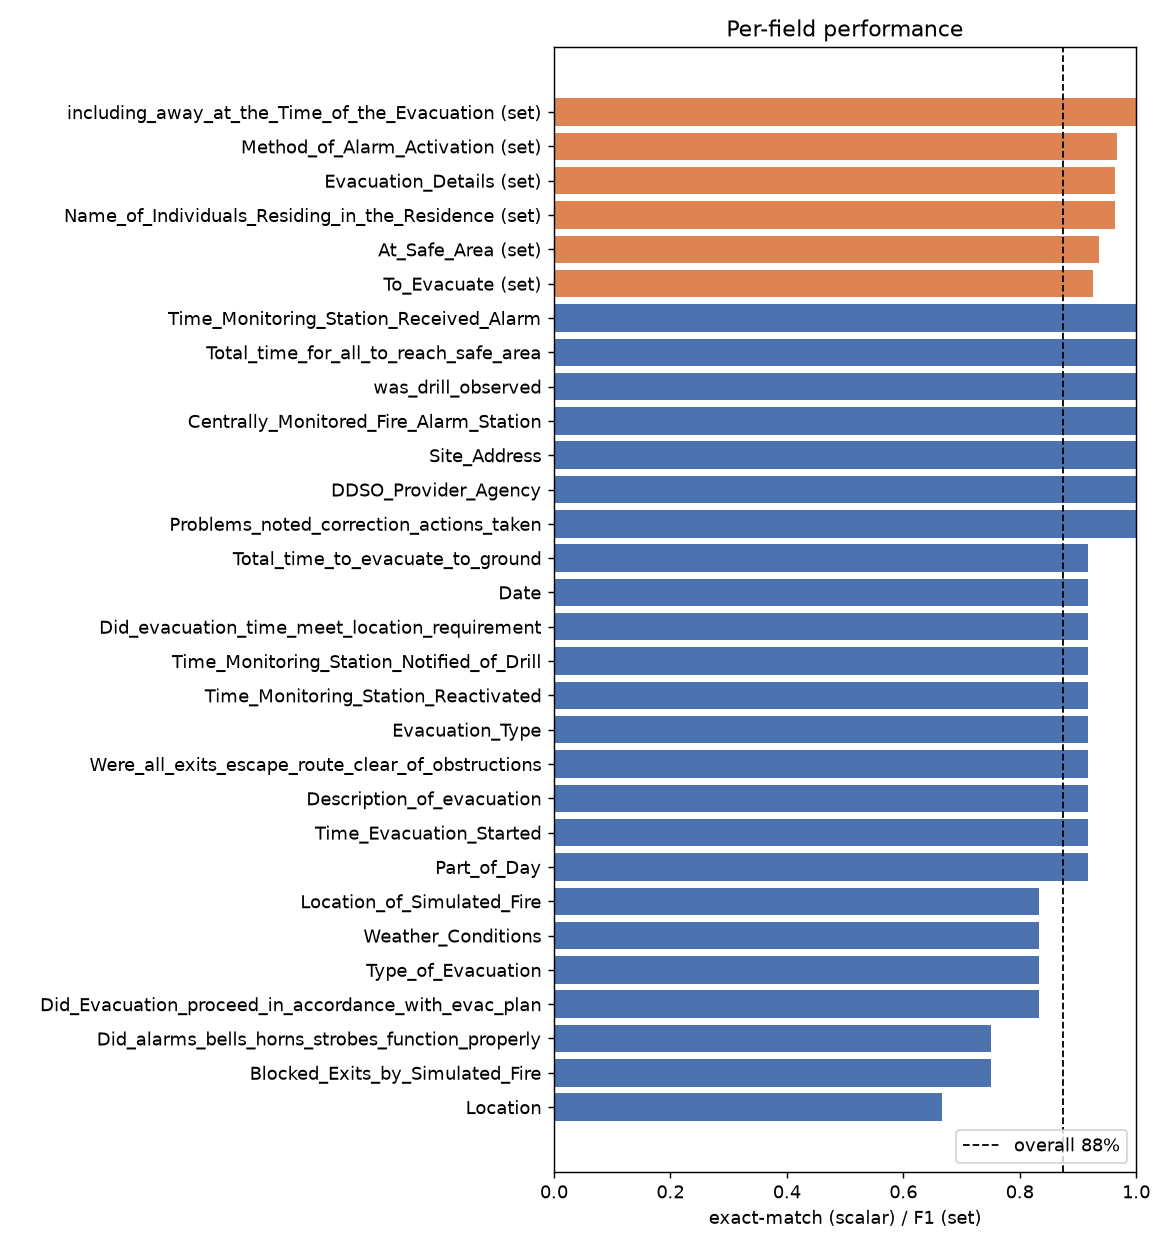
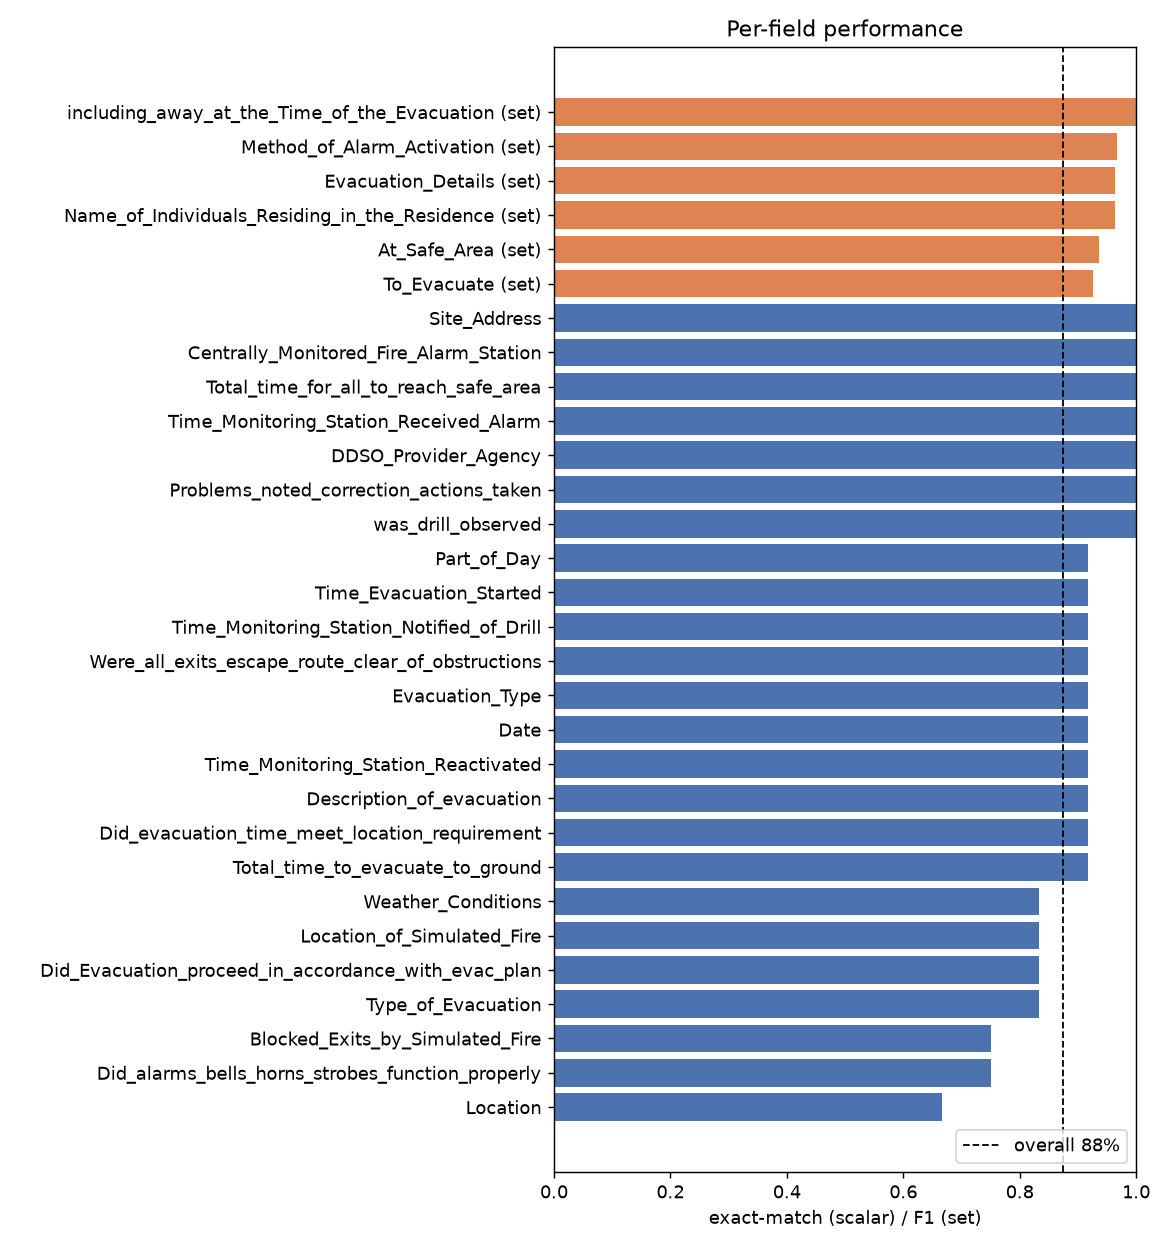
Fix CI failures: PDF codec, mypy version pin, and type-clean deskew
- generate_synthetic_forms: build PDFs with PyMuPDF instead of Pillow's
  JPEG-dependent PDF writer (CI runners lack the JPEG codec -> KeyError 'JPEG')
- preprocessing.estimate_skew_angle: compute float median then clamp with
  float literals (resolves numpy stub arg-type error on 3.10)
- mypy: drop python_version pin (newer numpy stubs use PEP 695 `type`)
- CI: split into a single-version `static` job (lint/format/mypy on 3.10)
  plus a `test` matrix (pytest + eval smoke on 3.10/3.11/3.12)

Changed region(s): [[0.0923, 0.25, 0.4615, 0.625], [0.0308, 0.6562, 0.4615, 0.875]]

diff --git a/eval/generate_synthetic_forms.py b/eval/generate_synthetic_forms.py
@@ -277,6 +277,29 @@ def _render_page2(rec: dict) -> Image.Image:
     return img
 
 
+def _save_pdf(pages: list[Image.Image], path: Path) -> None:
+    """Write PIL pages to a multi-page PDF via PyMuPDF.
+
+    Pillow's own PDF writer encodes RGB pages through JPEG, which requires a
+    libjpeg-backed codec that minimal CI environments may lack (KeyError: 'JPEG').
+    PyMuPDF ships its own codecs and embeds the pages as lossless PNG streams.
+    """
+    import io
+
+    import fitz
+
+    doc = fitz.open()
+    try:
+        for img in pages:
+            buf = io.BytesIO()
+            img.save(buf, format="PNG")
+            page = doc.new_page(width=img.width, height=img.height)
+            page.insert_image(fitz.Rect(0, 0, img.width, img.height), stream=buf.getvalue())
+        doc.save(str(path))
+    finally:
+        doc.close()
+
+
 def generate(n: int, seed: int) -> None:
     rng = random.Random(seed)
     SAMPLE_DIR.mkdir(parents=True, exist_ok=True)
@@ -287,8 +310,7 @@ def generate(n: int, seed: int) -> None:
         for i in range(n):
             rec = _make_record(rng)
             src = f"synthetic_form_{i:02d}.pdf"
-            p1, p2 = _render_page1(rec), _render_page2(rec)
-            p1.save(SAMPLE_DIR / src, save_all=True, append_images=[p2], resolution=120.0)
+            _save_pdf([_render_page1(rec), _render_page2(rec)], SAMPLE_DIR / src)
             gt.write(json.dumps({"source_file": src, "fields": rec}) + "\n")
     print(f"Wrote {n} synthetic forms to {SAMPLE_DIR}")
     print(f"Wrote ground truth to {labels_path}")

diff --git a/src/formextract/preprocessing.py b/src/formextract/preprocessing.py
@@ -68,7 +68,8 @@ def estimate_skew_angle(gray: np.ndarray) -> float:
             angles.append(ang)
     if not angles:
         return 0.0
-    return float(max(min(np.median(angles), 10), -10))
+    median_angle = float(np.median(angles))
+    return max(min(median_angle, 10.0), -10.0)
 
 
 def _rotate_keep_bounds(gray: np.ndarray, angle_deg: float) -> np.ndarray:

diff --git a/eval/reports/metrics.md b/eval/reports/metrics.md
@@ -15,30 +15,30 @@
 ## Scalar (text) fields
 | field                                               | exact-match   |   mean sim |   n |
 |-----------------------------------------------------|---------------|------------|-----|
+| was_drill_observed                                  | 100.0%        |      1     |  12 |
 | Problems_noted_correction_actions_taken             | 100.0%        |      1     |  12 |
 | DDSO_Provider_Agency                                | 100.0%        |      1     |  12 |
-| Site_Address                                        | 100.0%        |      1     |  12 |
-| Centrally_Monitored_Fire_Alarm_Station              | 100.0%        |      1     |  12 |
-| was_drill_observed                                  | 100.0%        |      1     |  12 |
-| Total_time_for_all_to_reach_safe_area               | 100.0%        |      1     |  12 |
 | Time_Monitoring_Station_Received_Alarm              | 100.0%        |      1     |  12 |
+| Total_time_for_all_to_reach_safe_area               | 100.0%        |      1     |  12 |
+| Centrally_Monitored_Fire_Alarm_Station              | 100.0%        |      1     |  12 |
+| Site_Address                                        | 100.0%        |      1     |  12 |
 | Location                                            | 66.7%         |      0.742 |  12 |
-| Blocked_Exits_by_Simulated_Fire                     | 75.0%         |      0.812 |  12 |
 | Did_alarms_bells_horns_strobes_function_properly    | 75.0%         |      0.75  |  12 |
-| Did_Evacuation_proceed_in_accordance_with_evac_plan | 83.3%         |      0.833 |  12 |
+| Blocked_Exits_by_Simulated_Fire                     | 75.0%         |      0.812 |  12 |
 | Type_of_Evacuation                                  | 83.3%         |      0.912 |  12 |
-| Weather_Conditions                                  | 83.3%         |      0.896 |  12 |
+| Did_Evacuation_proceed_in_accordance_with_evac_plan | 83.3%         |      0.833 |  12 |
 | Location_of_Simulated_Fire                          | 83.3%         |      0.903 |  12 |
-| Part_of_Day                                         | 91.7%         |      0.991 |  12 |
-| Time_Evacuation_Started                             | 91.7%         |      0.988 |  12 |
-| Description_of_evacuation                           | 91.7%         |      0.917 |  12 |
-| Were_all_exits_escape_route_clear_of_obstructions   | 91.7%         |      0.917 |  12 |
-| Evacuation_Type                                     | 91.7%         |      0.917 |  12 |
-| Time_Monitoring_Station_Reactivated                 | 91.7%         |      0.917 |  12 |
-| Time_Monitoring_Station_Notified_of_Drill           | 91.7%         |      0.988 |  12 |
-| Did_evacuation_time_meet_location_requirement       | 91.7%         |      0.917 |  12 |
-| Date                                                | 91.7%         |      0.917 |  12 |
+| Weather_Conditions                                  | 83.3%         |      0.896 |  12 |
 | Total_time_to_evacuate_to_ground                    | 91.7%         |      0.917 |  12 |
+| Did_evacuation_time_meet_location_requirement       | 91.7%         |      0.917 |  12 |
+| Description_of_evacuation                           | 91.7%         |      0.917 |  12 |
+| Time_Monitoring_Station_Reactivated                 | 91.7%         |      0.917 |  12 |
+| Date                                                | 91.7%         |      0.917 |  12 |
+| Evacuation_Type                                     | 91.7%         |      0.917 |  12 |
+| Were_all_exits_escape_route_clear_of_obstructions   | 91.7%         |      0.917 |  12 |
+| Time_Monitoring_Station_Notified_of_Drill           | 91.7%         |      0.988 |  12 |
+| Time_Evacuation_Started                             | 91.7%         |      0.988 |  12 |
+| Part_of_Day                                         | 91.7%         |      0.991 |  12 |
 
 ## Set / list fields
 | field                                         |   precision |   recall |    F1 | exact-set   |